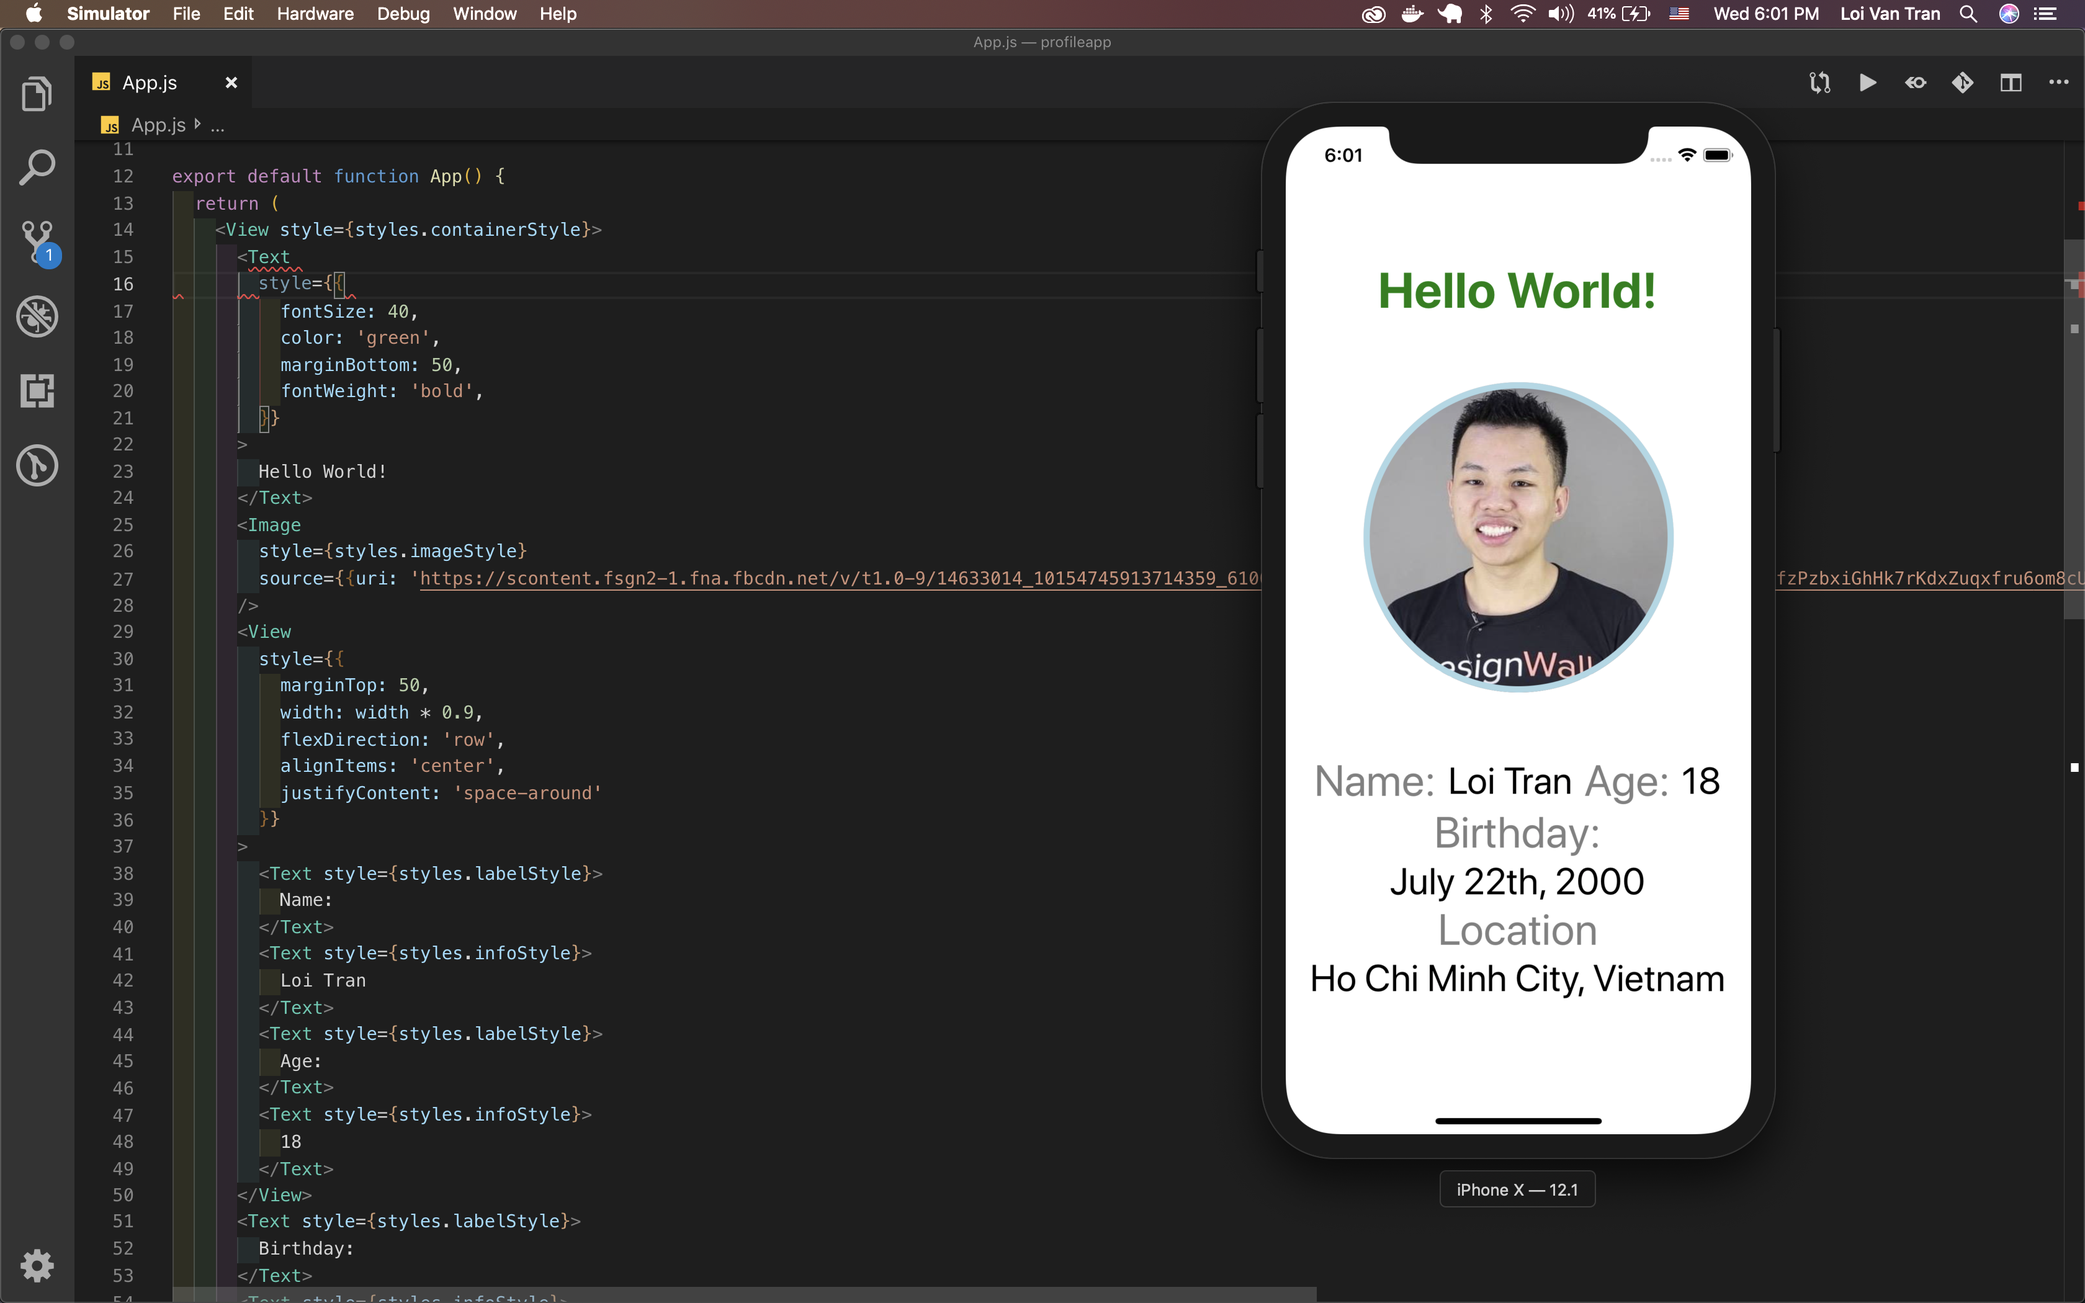
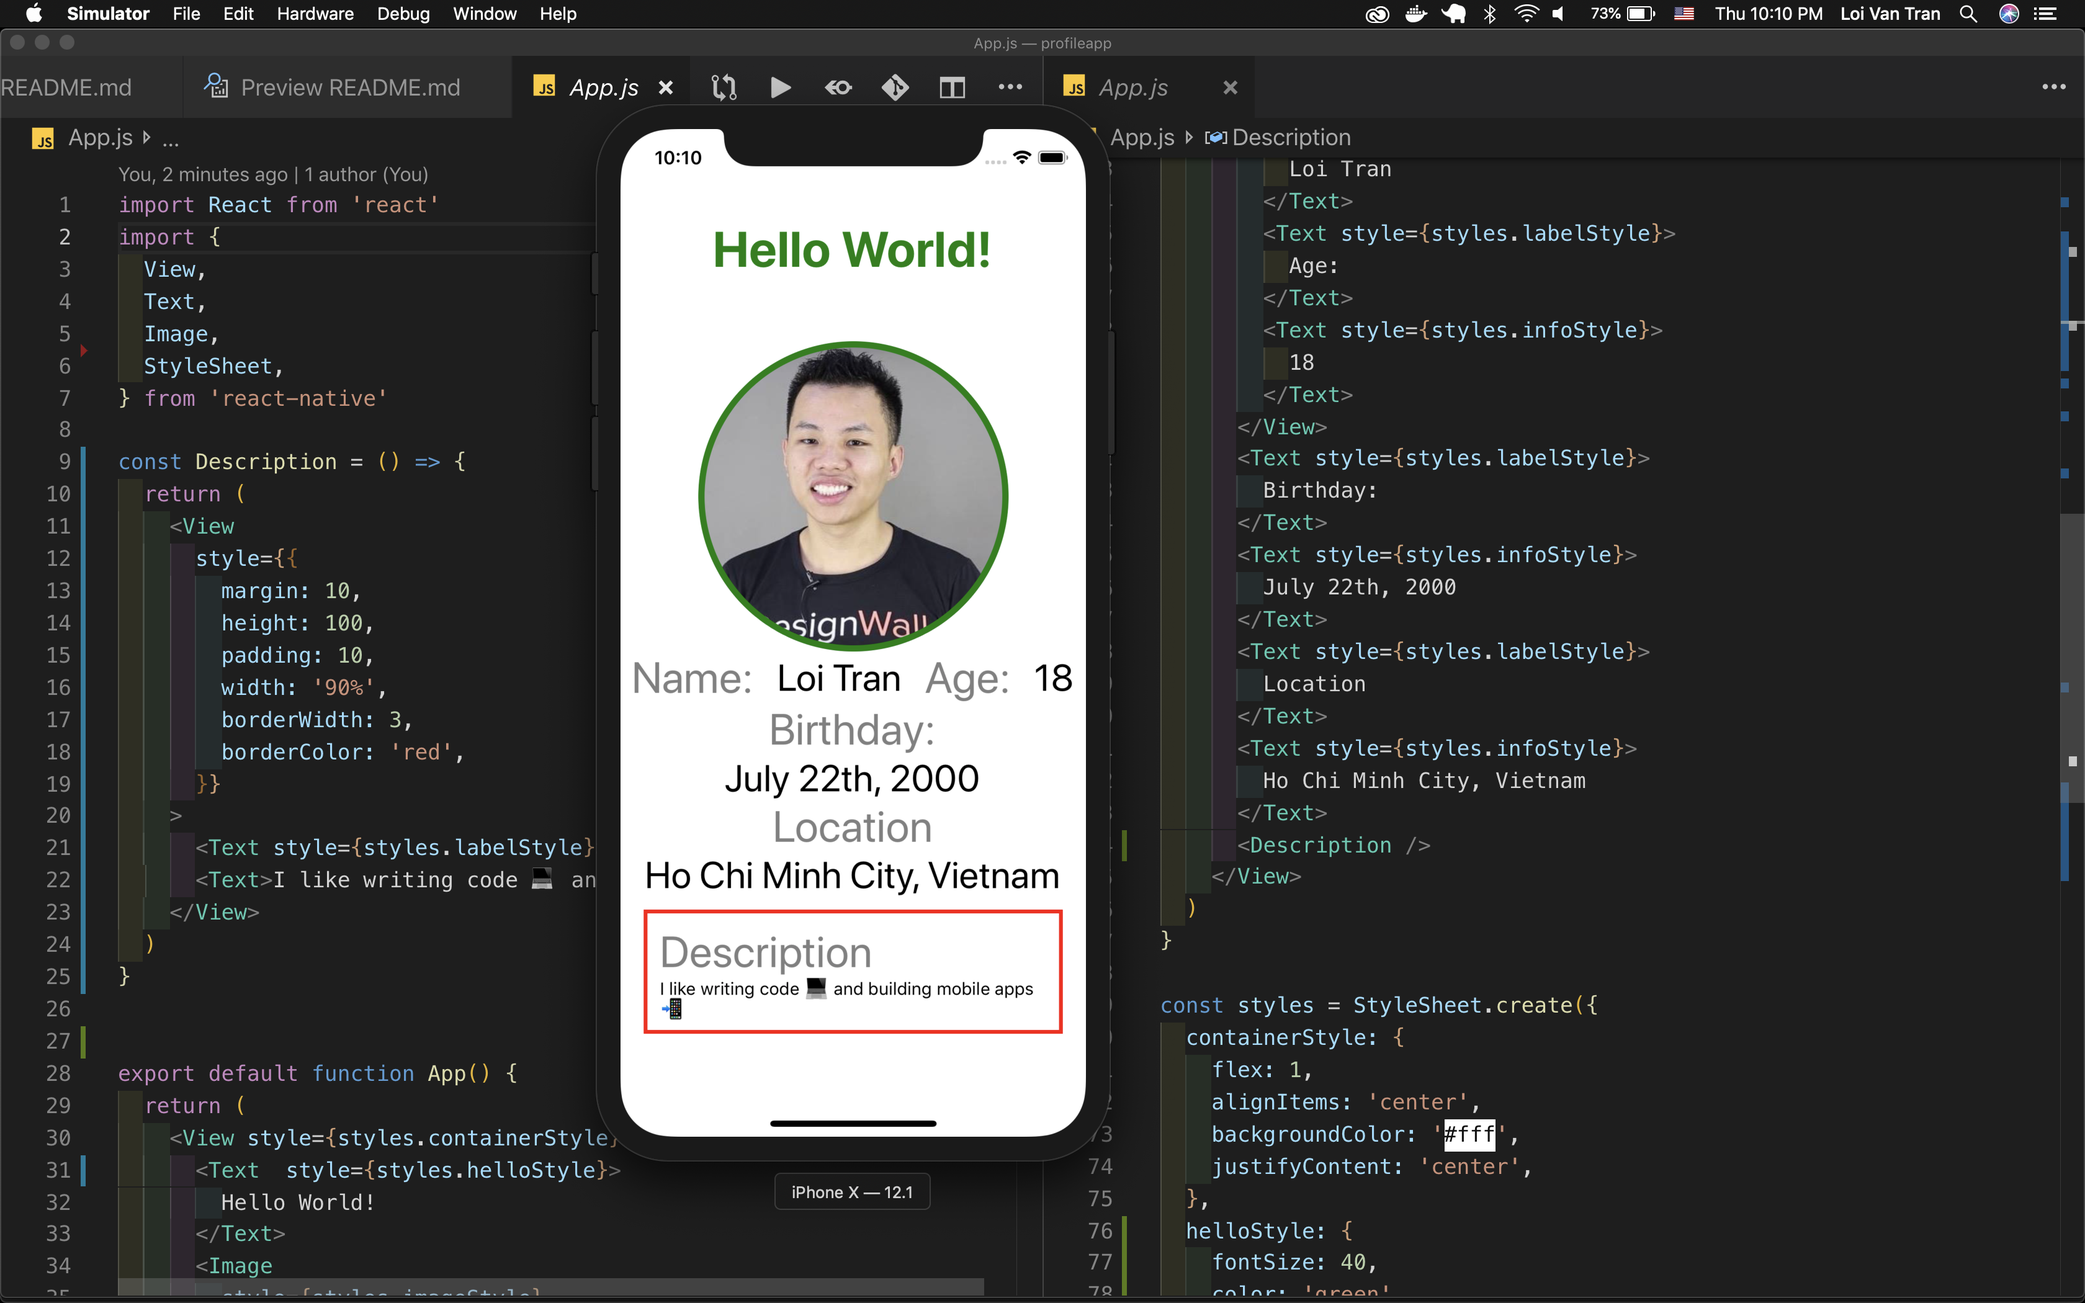
Update lesson

diff --git a/App.js b/App.js
@@ -3,37 +3,39 @@ import {
   View, 
   Text,
   Image,
-  Dimensions,
   StyleSheet,
 } from 'react-native'
 
-const { width,  } = Dimensions.get('window')
+const Description = () => {
+  return (
+    <View 
+      style={{ 
+        margin: 10,
+        height: 100, 
+        padding: 10,
+        width: '90%',
+        borderWidth: 3, 
+        borderColor: 'red', 
+      }}
+    >
+      <Text style={styles.labelStyle}>Description</Text>
+      <Text>I like writing code 💻 and building mobile apps 📲</Text>
+    </View>
+  )
+}
+
 
 export default function App() {
   return (
     <View style={styles.containerStyle}>
-      <Text 
-        style={{
-          fontSize: 40,
-          color: 'green',
-          marginBottom: 50,
-          fontWeight: 'bold',
-        }}
-      >
+      <Text  style={styles.helloStyle}>
         Hello World!
       </Text>
       <Image
         style={styles.imageStyle}
         source={{uri: 'https://scontent.fsgn2-1.fna.fbcdn.net/v/t1.0-9/14633014_10154745913714359_6100717154322258576_n.jpg?_nc_cat=105&_nc_oc=AQkZMdfzPzbxiGhHk7rKdxZuqxfru6om8cUXLPi4elQn9yH-qtyHT1jMm8_wF2g-kp8&_nc_ht=scontent.fsgn2-1.fna&oh=0a07f00a2483ba1090d5010e8cd1eb64&oe=5DC1478A'}}
       />
-      <View 
-        style={{ 
-          width: '100%',
-          flexDirection: 'row',
-          alignItems: 'center',
-          justifyContent: 'space-around'
-        }}
-      >
+      <View style={styles.singleHorizontalRowStyle}>
         <Text style={styles.labelStyle}>
           Name:
         </Text>
@@ -59,6 +61,7 @@ export default function App() {
       <Text style={styles.infoStyle}>
         Ho Chi Minh City, Vietnam
       </Text>
+      <Description />
     </View>
   )
 }
@@ -69,6 +72,18 @@ const styles = StyleSheet.create({
     alignItems: 'center',
     backgroundColor: '#fff',
     justifyContent: 'center',
+  },
+  helloStyle: {
+    fontSize: 40,
+    color: 'green',
+    marginBottom: 50,
+    fontWeight: 'bold',
+  },
+  singleHorizontalRowStyle: { 
+    width: '100%',
+    flexDirection: 'row',
+    alignItems: 'center',
+    justifyContent: 'space-around'
   },
   labelStyle: { 
     fontSize: 35,

diff --git a/README.md b/README.md
@@ -1,12 +1,12 @@
-# Week 1: Hello World in React Native
+# Week 1: Hello World 🌎
 
-## **Introduction 🌟**
+## Introduction 🌟
 
-We're going to build our first mobile app 📱 using [React Native](https://facebook.github.io/react-native/). We'll be using [Expo](https://expo.io/) to make getting started quick. Our app will help us to share information 📋 about ourselves to our friends 🍻🤗💁.
+We're going to build our first mobile app 📱 using [React Native](https://facebook.github.io/react-native/). We'll be using [Expo](https://expo.io/) to move quick. Our app will say hello 👋to not only our friends 🤼 & family 👨👩👧👦 but the world 🌎.
 
-![pwd](./assets/images/3e.png)
+![pwd](./assets/images/rockets.png)
 
-### Features 🥅🥇
+### Features 🎯 🥅🥇🏆
 
 - [ ] User can see our name
 - [ ] User can see our age
@@ -17,13 +17,13 @@ We're going to build our first mobile app 📱 using [React Native](https://face
 ### Learning Objectives ✍📚📝 📈🙌 
 
 1. Learn how to create a new mobile app 📱using React Native & Expo:
-    - Recognize it's a folder 🗂on our computer containing folders 📂 & files 📄📑 which have different responsibilities 🗝🎉.
-2. Learn that `App.js` is a component like all other components, albeit, special:
-    - Recognize it's parts ⚙will reflect how other components are built. It will need to import components for use & return 🚪JSX.
+    - Recognize it's one of many folders 🗂on our computer containing additional **folders** 📂 & **files** 📑. These folders and files combine to be the ingredients  🍚🥦🍗🌶of our special order 🥘🍲🍛mobile app 📲.
+2. Learn that `App.js` is a component  like all other components, albeit, special 💎👑:
+    - Recognize it's **composition** 🎶 will demonstrate how to **build** 🏗👷**our own** components.
 3. Learn that nesting components inside of `App.js` is how we'll build all our apps 📱: 
-    - Recognize it will one day become the [parent component](https://stackoverflow.com/questions/44092105/what-is-the-difference-between-child-and-parent-component-in-angular-2) of all other components in our applications. This will happen through nesting. Some components will be parents 👫 and others will be their children 👨👩👧👦.
-4. Learn that passing properties to components changes their behavior the way arguments to a function call change the return value:
-    - Recognize that some components are classified as [functional](https://www.robinwieruch.de/react-function-component/). Like functions, the properties/props/params/arguments we pass them will effect their behavior.
+    - Recognize it will one day become the [parent component](https://stackoverflow.com/questions/44092105/what-is-the-difference-between-child-and-parent-component-in-angular-2) of all other components in our applications. This will happen through **nesting**. Some components will be parents 👫 and others will be their children 👨👩👧👦.
+4. Learn that passing **properties** to components changes their **behavior** the way arguments to a function call change the return value:
+    - Recognize that some components are classified as [functional](https://www.robinwieruch.de/react-function-component/). Like functions, the **properties/props/params/arguments** we pass them will effect their behavior.
 
 No company you work at will expect you to work alone or without the help of resources available. We suggest you work in pairs and Google not only now but in future lessons.
 
@@ -33,7 +33,7 @@ No company you work at will expect you to work alone or without the help of reso
 
 **A)** Open your terminal and navigate to the place you'll want to keep all the apps you'll build in the future saved on your computer. In my case it happens to be:
 
-```
+```terminal
 /Users/primetimetran/Desktop/coderschool
 ```
 
@@ -47,7 +47,7 @@ No company you work at will expect you to work alone or without the help of reso
 
 > 'blank' minimal dependencies to run and an empty root component
 
-and press enter.
+and press `enter`.
 
 **D)** Now enter the name for the project again. This name should reflect what you'd call this on the App & Play stores.
 
@@ -75,20 +75,21 @@ To get started you can type:
 
 
 ---
-> **Tip** 💡: If you run into problems such as the simulator not opening, error messages, etc, refer to the documentation found at [https://docs.expo.io/versions/v33.0.0/introduction/installation/](https://docs.expo.io/versions/v33.0.0/introduction/installation/) and try figuring it out **yourself**. You'll want to know how to do this yourself in the future, trust us. Additionally, a reasonable expectation that your future bosses and teammates will have is that you can **indepdently troubleshoot** problems by **reading publically available documentation** and **following recommended steps**.
+> **Tip** 💡: If you run into problems such as the simulator not opening, error messages, etc, refer to the documentation found at [https://docs.expo.io/versions/v33.0.0/introduction/installation/](https://docs.expo.io/versions/v33.0.0/introduction/installation/) and try figuring it out **yourself**. You'll want to know how to do this yourself in the future, trust us. Additionally, a reasonable expectation that your future teammates and boss will have is that you can **indepdently troubleshoot** problems by **reading publically available documentation** and **following recommended steps**.
 
 ---
-> Key Points 🔑📝
+> **Key Points** 🔑📝
 
 - We can create a new mobile app from the command line. When we run `expo init app-name` Expo creates a folder on our computer  that matches 'app-name' where all the files required for this app are. The **sky** is the limit.
 
 ---
 
-### **Milestone 2 🛣🏃 Open ./App.js in your code editor and famaliarize yourself with it**
+### **Milestone 2 🛣🏃 Open ./App.js in your code editor and examine it**
 
-![App.js](https://i.imgur.com/ldYKvjG.png)
+All your applications will have the `App.js` file/component as the parent of all other components. It came free with React Native. This component is the work of not only the engineers at [Facebook](https://www.facebook.com/) but engineers around the world code.
 
 <details>
+
 <summary>App.js contents</summary>
 
 ```jsx
@@ -115,11 +116,9 @@ const styles = StyleSheet.create({
 
 </details>
 
-Your future applications will have `App.js` file/component as the parent of all other components.
+![App.js](https://i.imgur.com/ldYKvjG.png)
 
-Lets inspect it carefully as an example of how to build other components.
-
-**A)** At the very top we can see the lines:
+**A)** Check out the top section:
 
 ```jsx
 import React from 'react';
@@ -140,9 +139,14 @@ export default function App() {
 }
 ```
 
-There's a few things going on here. We're defining our App `component` as the [default export](https://stackoverflow.com/questions/21117160/what-is-export-default-in-javascript) of this file, `App.js`. The name of the component typically corresponds to the name of the file. Also, we define the body of this component, `App`. It's body returns JSX. There is a `View` component that has a `Text` component nested inside it. This should look familiar to those of you who know html.
+There's a few things going on here
+- They name the component to correspond to the file's name, `App.js`.
+- They define `App` as the [default export](https://stackoverflow.com/questions/21117160/what-is-export-default-in-javascript) of this file, `App.js`.
+- They define the body of `App` with the `{}`.
+- They `return` JSX in the `()`.
+- They have a `View` parent  🤰component that has a child 👼 `Text` component nested.
 
-**C)** We style our application at the bottom. We see that we use StyleSheet's `create()` method and pass it an argument. The argument to it is an object. The object has keys whose values are other objects. This is where we'll style in the future.
+**C)** We style our application at the bottom. We see that we use StyleSheet's `create()` method and pass it an argument. The argument to it is an object. The object has keys whose values are other objects. This is where we'll style 💅.
 
 ```jsx
 const styles = StyleSheet.create({
@@ -156,19 +160,20 @@ const styles = StyleSheet.create({
 ```
 
 ---
-> Key Points 🔑📝
+> **Key Points** 🔑📝
 
-- We can import components for use at the top of most files.
+- We can import components for use at the top of our files.
 - We can create components by writing functions which return JSX.
 - We can nest components inside of one another.
+- We can style our components just like HTML.
 
 ---
 
-### **Milestone 3 🛣🏃 Begin building**
+### **Milestone 3 🛣🏃 Begin building 👷🏗🏭**
 
-Let's get going on building that profile page.
+Let's get going on building that saying hello world.
 
-**A)** Show our name on the app:
+**A)** Print your name to the screen:
 
 ```jsx
 export default function App() {
@@ -198,7 +203,7 @@ export default function App() {
 ```
 
 ![pwd](./assets/images/3b.png)
-Now we've got two sibling components, interesting. Our text is quite small. Also, the two pieces of information are fundamentally different. We should treat them so.
+Now we've got two `sibling` `Text` components, interesting. Our text is quite small. Also, the two pieces of text are fundamentally different in what they're displaying. We should treat them so.
 
 **C)** Change the styling of the `Text` components to reflect their purpose.
 
@@ -231,7 +236,7 @@ export default function App() {
 If you see a screen like this you've done well. You've added a child component to `App.js` of `Text`. There are now two `Text` siblings. We've also passed them `style` props, these props affected the way these components behaved in terms of styling.
 
 ---
-> **Tip** 💡: We'll show you different syntaxes so you know additional techniques.
+> **Tip** 💡: We'll show you different syntaxs so you know additional techniques.
 
 ---
 
@@ -328,7 +333,7 @@ const styles = StyleSheet.create({
 
 </details>
 
-**D)** Add a profile image so the user can see you. Make sure to replace the `uri` part with a publically available image of yourself(I used Facebook).
+**D)** Grab the `Image` component from React Native and add a profile image so the user can see you. Make sure to replace the `uri` part with a publically available image of yourself(I used Facebook).
 
 ```jsx
 export default function App() {
@@ -350,7 +355,7 @@ export default function App() {
 ```
 
 ![pwd](./assets/images/3d.png)
-We grabbed `Image` from React Native. We nested it inside our single `View` as a child. `Image` has two sibling `Text`s. We also passed `Image` a new type of property we haven't seen before, `source`. What datatype is the property we sent to to Image? Can you describe it's shape?
+We grabbed `Image` from React Native. We nested it inside our single `View` as a child. `Image` has two sibling `Text` components. We also passed `Image` a new type of property we haven't seen before, `source`. This prop is passed an object. The object has a key or `uri` where the value is a `String` which is the URL of the image. 
 
 **E)** Add other details about ourselves
 ```jsx
@@ -389,9 +394,10 @@ return (
 ```
 
 ![pwd](./assets/images/3e.png)
-Now the user knows something about us, amazing 🍾🎉. It seems sorta weird the way name and age are so small yet take up an entire row though. Let's fix this in the next step
+Now the user knows something about us, amazing 🍾🎉. It seems weird the way name and age are so small yet take up an entire row though. Let's fix this in the next step
 
-**F)** Make name and age fit on the same row. Add the following to the return of the `App` component:
+**F)** Make name and age fit on the same row using [Flexbox](https://css-tricks.com/snippets/css/a-guide-to-flexbox/). Add the following to the return of the `App` component:
+
 ```jsx
 // ... code ...
   <View 
@@ -419,29 +425,31 @@ Now the user knows something about us, amazing 🍾🎉. It seems sorta weird th
 
 ![pwd](./assets/images/3f.png)
 
-Sweet, so we now know how to layout things top to bottom as well as left to right. Do you know how we could get it to go bottom to top or right to left? If not, then spend a few minutes [watching this video](https://www.youtube.com/watch?v=-xFF5KF-KpE&t=293s). I watched this myself to learn flexbox a few years ago =)
+Sweet, now we know how to layout things top to bottom as well as left to right. Do you know how we could get it to go bottom to top or right to left? If not, then spend a few minutes [watching this video](https://www.youtube.com/watch?v=-xFF5KF-KpE&t=293s). I watched this myself to learn flexbox a few years ago =)
 
 ---
 
-> Key Points 🔑📝
+> **Key Points** 🔑📝
 
-- We can nest components to create visual elements in our app like labels, text, and images.
+- We can nest components to create visual elements in `App.js` like labels, text, and images.
+
 - We can pass properties as necessary to components to change their behavior/layout.
+
 - We can see that different components can receive different props, think about the responsibilities of `source` and `style`.
 
 ---
 
-#  Review 🤹👨🏻🏫🥇🏆🙋🧘🏻
+## Review 💻🤓🤔
 
 - Any app consists of a folder 🗂on our computer containing folders 📂 & files 📄📑 which have different responsibilities 🗝🎉.
 
-- `App.js` will be a component in every application we build. Looking at it's parts ⚙ helps us understand the basic composition of components.
+- `App.js` will be a component in every app we build. Understanding `App.js`'s parts ⚙ helps us understand the basic composition 🏗 of all future components.
 
 - `App.js` will  one day become the [parent component](https://stackoverflow.com/questions/44092105/what-is-the-difference-between-child-and-parent-component-in-angular-2) of all other components in our applications. This will happen through nesting. Some components will be parents 👫 and others will be their children 👨👩👧👦.
 
-- Understand some components are classified as [functional](https://www.robinwieruch.de/react-function-component/). Like functions, `functional components` accept props/params and will behavior differently on said props/params.
+- Understand some components are classified as [functional](https://www.robinwieruch.de/react-function-component/). Like functions, `functional components` accept props/params and will behave differently due to said props/params.
 
-### Completed Features 🥅🥇
+### Accomplishments 🎯🥇🏆💯
 
 - [X] User can see our name
 - [X] User can see our age
@@ -449,11 +457,38 @@ Sweet, so we now know how to layout things top to bottom as well as left to righ
 - [X] User can see our profile picture
 - [X] User can see where we currently live
 
-### Rockets 🔥🚀
+### Rockets 🚀
 
-- [ ] Make this your React Native Hello World by adding this text to the top.
+- [ ] Make this your Hello World to React Native.
 - [ ] Make the avatar circular and give it some additional styling such as a border.
-- [ ] Space out the 'Hello World', avatar, and descriptions to maximize valuable screenspace.
+- [ ] Space out the 'Hello World', avatar, and descriptions to maximize use of valuable screenspace.
+- [ ] Build your own `Description` component above `App.js`. Nest/Render it inside of `App.js`
+
+<details>
+
+<summary>Hint</summary>
+
+```jsx
+const Description = () => {
+  return (
+    <View 
+      style={{ 
+        margin: 10,
+        height: 100, 
+        padding: 10,
+        width: '90%',
+        borderWidth: 3, 
+        borderColor: 'red', 
+      }}
+    >
+      <Text style={styles.labelStyle}>Description</Text>
+      <Text>I like writing code 💻 and building mobile apps 📲</Text>
+    </View>
+  )
+}
+```
+
+</details>
 
 ##### It should look like this
 ![pwd](./assets/images/rockets.png)
